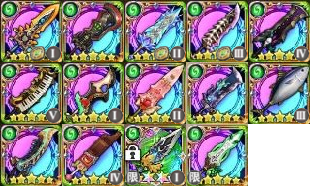
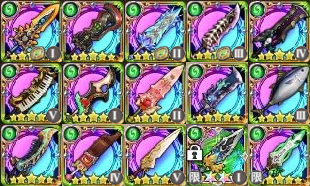
Update Dress Up

Changed region(s): [[0.3774, 0.6452, 1.0, 1.0]]

diff --git a/docs/list-weapons.md b/docs/list-weapons.md
@@ -140,6 +140,7 @@ EQ | Name | Slot | Auto | Special
 <img src="https://raw.githubusercontent.com/caelumff/bdfeguides/master/icons/KNG4-10.jpg" width="60" alt="Sword"> | <a href="list-names.md#-summer-2018">Tuna</a> | 3 | Heal<br> | Mono Phalanx 3<br>
 <img src="https://raw.githubusercontent.com/caelumff/bdfeguides/master/icons/KNG4-11.jpg" width="60" alt="Sword"> | <a href="list-names.md#-grimms-notes-repage">Legend</a> | 0 |  -  | Allies Heal<br>
 <img src="https://raw.githubusercontent.com/caelumff/bdfeguides/master/icons/KNG4-12.jpg" width="60" alt="Sword"> | <a href="list-names.md#-valentines-2019">Choco</a> | 4 |  -  | Command 2<br>Aggro<br>
+<img src="https://raw.githubusercontent.com/caelumff/bdfeguides/master/icons/KNG4-13.jpg" width="60" alt="Sword"> | <a href="list-names.md#-dress-up">Dress Up</a> | 5 |  -  | Limit Break 3<br><img src="https://caelum.s-ul.eu/7tZLFGPP.png" width="25" alt="Slot Effect"> Phalanx 1<br>
 <img src="https://raw.githubusercontent.com/caelumff/bdfeguides/master/icons/Chocobo1.jpg" width="60" alt="Sword"> | **[LIMITED]** <a href="list-names.md#-final-fantasy-brave-exvius">Chocobo</a> | 1 |  -  | HP Up<br>Regen 1<br>
 <img src="https://raw.githubusercontent.com/caelumff/bdfeguides/master/icons/Rinne1.jpg" width="60" alt="Sword"> | **[LIMITED]** <a href="list-names.md#-2nd-anniversary">Rinne</a> | 0 |  -  | Dueling 3<br>
 
@@ -218,6 +219,7 @@ EQ | Name | Slot | Auto | Special
 <img src="https://raw.githubusercontent.com/caelumff/bdfeguides/master/icons/BLM4-10.jpg" width="60" alt="Rod"> | <a href="list-names.md#-summer-2018">Unagi</a> | 3 |  -  | AoE<br>Magic Barrier<br>Aspir 2<br>
 <img src="https://raw.githubusercontent.com/caelumff/bdfeguides/master/icons/BLM4-11.jpg" width="60" alt="Rod"> | <a href="list-names.md#-grimms-notes-repage">Legend</a> | 0 | Buff<br> | Split<br>Fast Cast 2<br>
 <img src="https://raw.githubusercontent.com/caelumff/bdfeguides/master/icons/BLM4-12.jpg" width="60" alt="Rod"> | <a href="list-names.md#-valentines-2019">Lollipop</a> | 4 |  -  | Limit Break 3<br>
+<img src="https://raw.githubusercontent.com/caelumff/bdfeguides/master/icons/BLM4-13.jpg" width="60" alt="Rod"> | <a href="list-names.md#-dress-up">Dress Up</a> | 5 | AoE<br> | Empower 2<br><img src="https://caelum.s-ul.eu/7tZLFGPP.png" width="25" alt="Slot Effect"> Limit Break 1<br>
 <img src="https://raw.githubusercontent.com/caelumff/bdfeguides/master/icons/Chocobo2.jpg" width="60" alt="Rod"> | **[LIMITED]** <a href="list-names.md#-final-fantasy-brave-exvius">Chocobo</a> | 1 | AoE<br> | Concentrate 2<br>
 <img src="https://raw.githubusercontent.com/caelumff/bdfeguides/master/icons/Rinne2.jpg" width="60" alt="Rod"> | **[LIMITED]** <a href="list-names.md#-2nd-anniversary">Rinne</a> | 0 |  -  | Critical 3<br>
 
@@ -296,6 +298,7 @@ EQ | Name | Slot | Auto | Special
 <img src="https://raw.githubusercontent.com/caelumff/bdfeguides/master/icons/WHM4-10.jpg" width="60" alt="Book"> | <a href="list-names.md#-summer-2018">Flounder</a> | 3 | Attack<br> | Mono Brave 3<br>BP Recovery<br>
 <img src="https://raw.githubusercontent.com/caelumff/bdfeguides/master/icons/WHM4-11.jpg" width="60" alt="Book"> | <a href="list-names.md#-grimms-notes-repage">Legend</a> | 0 | 2 Row<br> | Heal<br>PA/PD/MA/MD Up<br>
 <img src="https://raw.githubusercontent.com/caelumff/bdfeguides/master/icons/WHM4-12.jpg" width="60" alt="Book"> | <a href="list-names.md#-valentines-2019">Choco</a> | 4 | Buff<br> | 2 Row<br>HP/BP Up<br><img src="https://caelum.s-ul.eu/7tZLFGPP.png" width="25" alt="Slot Effect"> BP Recovery<br>
+<img src="https://raw.githubusercontent.com/caelumff/bdfeguides/master/icons/WHM4-13.jpg" width="60" alt="Book"> | <a href="list-names.md#-dress-up">Dress Up</a> | 5 | Attack<br> | Attack<br>Mono Brave/Default 1<br>Mono Quick 2<br>
 <img src="https://raw.githubusercontent.com/caelumff/bdfeguides/master/icons/Chocobo3.jpg" width="60" alt="Book"> | **[LIMITED]** <a href="list-names.md#-final-fantasy-brave-exvius">Chocobo</a> | 1 |  -  | Heal<br>Brave 1<br>Default 1<br>
 <img src="https://raw.githubusercontent.com/caelumff/bdfeguides/master/icons/Rinne3.jpg" width="60" alt="Book"> | **[LIMITED]** <a href="list-names.md#-2nd-anniversary">Rinne</a> | 0 |  -  | Heal<br>Brave 2<br>BP Recovery<br>
 
@@ -374,6 +377,7 @@ EQ | Name | Slot | Auto | Special
 <img src="https://raw.githubusercontent.com/caelumff/bdfeguides/master/icons/THF4-10.jpg" width="60" alt="Dagger"> | <a href="list-names.md#-summer-2018">Mackerel</a> | 3 |  -  | AoE<br>Nuke<br>
 <img src="https://raw.githubusercontent.com/caelumff/bdfeguides/master/icons/THF4-11.jpg" width="60" alt="Dagger"> | <a href="list-names.md#-grimms-notes-repage">Legend</a> | 0 |  -  | Focus 2<br>
 <img src="https://raw.githubusercontent.com/caelumff/bdfeguides/master/icons/THF4-12.jpg" width="60" alt="Dagger"> | <a href="list-names.md#-valentines-2019">Fondue</a> | 4 | Fast 2 Hit<br>Aim 100%<br>AWK Boost<br> | Dagger Stance<br><img src="https://caelum.s-ul.eu/7tZLFGPP.png" width="25" alt="Slot Effect"> Row Quick 1<br>
+<img src="https://raw.githubusercontent.com/caelumff/bdfeguides/master/icons/THF4-13.jpg" width="60" alt="Dagger"> | <a href="list-names.md#-dress-up">Dress Up</a> | 5 |  -  | Assault 3<br>Cleanse<br><img src="https://caelum.s-ul.eu/7tZLFGPP.png" width="25" alt="Slot Effect"> Shadow 1<br>
 <img src="https://raw.githubusercontent.com/caelumff/bdfeguides/master/icons/Chocobo4.jpg" width="60" alt="Dagger"> | **[LIMITED]** <a href="list-names.md#-final-fantasy-brave-exvius">Chocobo</a> | 1 |  -  | Shadow 1<br>
 <img src="https://raw.githubusercontent.com/caelumff/bdfeguides/master/icons/Rinne4.jpg" width="60" alt="Dagger"> | **[LIMITED]** <a href="list-names.md#-2nd-anniversary">Rinne</a> | 0 |  -  | Dodge 3<br>
 
@@ -452,6 +456,7 @@ EQ | Name | Slot | Auto | Special
 <img src="https://raw.githubusercontent.com/caelumff/bdfeguides/master/icons/RNG4-10.jpg" width="60" alt="Bow"> | <a href="list-names.md#-summer-2018">Hairtail</a> | 3 |  -  | AoE<br>Mono Weakness/Forceless 2<br>
 <img src="https://raw.githubusercontent.com/caelumff/bdfeguides/master/icons/RNG4-11.jpg" width="60" alt="Bow"> | <a href="list-names.md#-grimms-notes-repage">Legend</a> | 0 | AoE<br> | AoE<br>PA/PD/MA/MD Down<br>Hawkeye 2<br>
 <img src="https://raw.githubusercontent.com/caelumff/bdfeguides/master/icons/RNG4-12.jpg" width="60" alt="Bow"> | <a href="list-names.md#-valentines-2019">Candy</a> | 4 |  -  | Wind Chaser 2<br><img src="https://caelum.s-ul.eu/7tZLFGPP.png" width="25" alt="Slot Effect"> Debuff Extend<br>
+<img src="https://raw.githubusercontent.com/caelumff/bdfeguides/master/icons/RNG4-13.jpg" width="60" alt="Bow"> | <a href="list-names.md#-dress-up">Dress Up</a> | 5 |  -  | Dispel<br>Cage of Curse<br><img src="https://caelum.s-ul.eu/7tZLFGPP.png" width="25" alt="Slot Effect"> Hawkeye 1<br>
 <img src="https://raw.githubusercontent.com/caelumff/bdfeguides/master/icons/Chocobo5.jpg" width="60" alt="Bow"> | **[LIMITED]** <a href="list-names.md#-final-fantasy-brave-exvius">Chocobo</a> | 1 |  -  | Weakness 1<br>Forceless 1<br>
 <img src="https://raw.githubusercontent.com/caelumff/bdfeguides/master/icons/Rinne5.jpg" width="60" alt="Bow"> | **[LIMITED]** <a href="list-names.md#-2nd-anniversary">Rinne</a> | 0 | AoE<br> | AoE<br>Mono Weakness 3<br>
 

diff --git a/docs/list-weapons-jp.md b/docs/list-weapons-jp.md
@@ -83,6 +83,7 @@
 <img src="https://raw.githubusercontent.com/caelumff/bdfeguides/master/icons/KNG4-10.jpg" width="60" alt="大剣"> | 零刀マグロ | III | 回復<br> | 染めファランクス III<br>
 <img src="https://raw.githubusercontent.com/caelumff/bdfeguides/master/icons/KNG4-11.jpg" width="60" alt="大剣"> | レジェンドソード | 無 | - | 自分以外回復<br>
 <img src="https://raw.githubusercontent.com/caelumff/bdfeguides/master/icons/KNG4-12.jpg" width="60" alt="大剣"> | 斬りチョコ | IV | - | 号令 II<br>敵視<br>
+<img src="https://raw.githubusercontent.com/caelumff/bdfeguides/master/icons/KNG4-13.jpg" width="60" alt="大剣"> | 神秘の大剣 | V | - | リミブレ III<br><img src="https://caelum.s-ul.eu/7tZLFGPP.png" width="25" alt="枠適正"> ファランクス I<br>
 <img src="https://raw.githubusercontent.com/caelumff/bdfeguides/master/icons/Chocobo1.jpg" width="60" alt="大剣"> | **[期間限定]** チョコボウィング | I | - | HPアップ<br>リジェネ I<br>
 <img src="https://raw.githubusercontent.com/caelumff/bdfeguides/master/icons/Rinne1.jpg" width="60" alt="大剣"> | **[期間限定]** 妖精の大剣 | 無 | - | デュエリング III<br>
 
@@ -161,6 +162,7 @@
 <img src="https://raw.githubusercontent.com/caelumff/bdfeguides/master/icons/BLM4-10.jpg" width="60" alt="ロッド"> | ウナギスティック | III | - | 全体<br>マジックバリア<br>アスピル II<br>
 <img src="https://raw.githubusercontent.com/caelumff/bdfeguides/master/icons/BLM4-11.jpg" width="60" alt="ロッド"> | レジェンドスタッフ | 無 | バフ<br> | スプリット<br>早口 II<br>
 <img src="https://raw.githubusercontent.com/caelumff/bdfeguides/master/icons/BLM4-12.jpg" width="60" alt="ロッド"> | マジロリポップ | IV | - | リミブレ III<br>
+<img src="https://raw.githubusercontent.com/caelumff/bdfeguides/master/icons/BLM4-13.jpg" width="60" alt="ロッド"> | 飛翔の杖 | V | 全体<br> | エンパワー II<br><img src="https://caelum.s-ul.eu/7tZLFGPP.png" width="25" alt="枠適正"> リミブレ I<br>
 <img src="https://raw.githubusercontent.com/caelumff/bdfeguides/master/icons/Chocobo2.jpg" width="60" alt="ロッド"> | **[期間限定]** チョコボフェザー | I | 全体<br> | 集中 II<br>
 <img src="https://raw.githubusercontent.com/caelumff/bdfeguides/master/icons/Rinne2.jpg" width="60" alt="ロッド"> | **[期間限定]** キセキの杖 | 無 | - | 会心 III<br>
 
@@ -239,6 +241,7 @@
 <img src="https://raw.githubusercontent.com/caelumff/bdfeguides/master/icons/WHM4-10.jpg" width="60" alt="ブック"> | ヒラカレざる禁書 | III | 攻撃<br> | 染めブレイブ III<br>BP回復<br>
 <img src="https://raw.githubusercontent.com/caelumff/bdfeguides/master/icons/WHM4-11.jpg" width="60" alt="ブック"> | レジェンドグリモア | 無 | 二列<br> | 回復<br>物攻物防魔攻魔防アップ<br>
 <img src="https://raw.githubusercontent.com/caelumff/bdfeguides/master/icons/WHM4-12.jpg" width="60" alt="ブック"> | チョコアソート | IV | バフ<br> | 二列<br>最大HP/BPアップ<br><img src="https://caelum.s-ul.eu/7tZLFGPP.png" width="25" alt="枠適正"> BP回復<br>
+<img src="https://raw.githubusercontent.com/caelumff/bdfeguides/master/icons/WHM4-13.jpg" width="60" alt="ブック"> | 創造の写本 | V | 攻撃<br> | 攻撃<br>染めブレイブデフォルト I<br>染めクイック II<br>
 <img src="https://raw.githubusercontent.com/caelumff/bdfeguides/master/icons/Chocobo3.jpg" width="60" alt="ブック"> | **[期間限定]** チョコボメモリア | I | - | 回復<br>ブレイブ I<br>デフォルト I<br>
 <img src="https://raw.githubusercontent.com/caelumff/bdfeguides/master/icons/Rinne3.jpg" width="60" alt="ブック"> | **[期間限定]** リンネのキセキ | 無 | - | 回復<br>ブレイブ II<br>BP回復<br>
 
@@ -317,6 +320,7 @@
 <img src="https://raw.githubusercontent.com/caelumff/bdfeguides/master/icons/THF4-10.jpg" width="60" alt="双剣"> | サバイタルナイフ | III | - | 全体<br>防御無視<br>
 <img src="https://raw.githubusercontent.com/caelumff/bdfeguides/master/icons/THF4-11.jpg" width="60" alt="双剣"> | レジェンドナイフ | 無 | - | フォーカス II<br>
 <img src="https://raw.githubusercontent.com/caelumff/bdfeguides/master/icons/THF4-12.jpg" width="60" alt="双剣"> | アラザンチョコフォンデュ | IV | 速い二段<br>必中<br>覚醒威力<br> | 双剣の構え<br><img src="https://caelum.s-ul.eu/7tZLFGPP.png" width="25" alt="枠適正"> 列クイック I<br>
+<img src="https://raw.githubusercontent.com/caelumff/bdfeguides/master/icons/THF4-13.jpg" width="60" alt="双剣"> | 絢爛の双剣 | V | - | アサルト III<br>デバフ全解除<br><img src="https://caelum.s-ul.eu/7tZLFGPP.png" width="25" alt="枠適正"> シャドウ I<br>
 <img src="https://raw.githubusercontent.com/caelumff/bdfeguides/master/icons/Chocobo4.jpg" width="60" alt="双剣"> | **[期間限定]** チョコボクロウ | I | - | シャドウ I<br>
 <img src="https://raw.githubusercontent.com/caelumff/bdfeguides/master/icons/Rinne4.jpg" width="60" alt="双剣"> | **[期間限定]** ナンデストウ | 無 | - | みかわし III<br>
 
@@ -395,6 +399,7 @@
 <img src="https://raw.githubusercontent.com/caelumff/bdfeguides/master/icons/RNG4-10.jpg" width="60" alt="弓"> | タッチウォーガン | III | - | 全体<br>染めウィークネスフォースレス II<br>
 <img src="https://raw.githubusercontent.com/caelumff/bdfeguides/master/icons/RNG4-11.jpg" width="60" alt="弓"> | レジェンドボウ | 無 | 全体<br> | 全体<br>物攻物防魔攻魔防ダウン<br>ホークアイ II<br>
 <img src="https://raw.githubusercontent.com/caelumff/bdfeguides/master/icons/RNG4-12.jpg" width="60" alt="弓"> | アロアロキャンディ | IV | - | 風チェイサー II<br><img src="https://caelum.s-ul.eu/7tZLFGPP.png" width="25" alt="枠適正"> デバフ延長<br>
+<img src="https://raw.githubusercontent.com/caelumff/bdfeguides/master/icons/RNG4-13.jpg" width="60" alt="弓"> | 鮮麗の弓 | V | - | バフ全解除<br>呪いの檻<br><img src="https://caelum.s-ul.eu/7tZLFGPP.png" width="25" alt="枠適正"> ホークアイ I<br>
 <img src="https://raw.githubusercontent.com/caelumff/bdfeguides/master/icons/Chocobo5.jpg" width="60" alt="弓"> | **[期間限定]** チョコボメナス | I | - | ウィークネス I<br>フォースレス I<br>
 <img src="https://raw.githubusercontent.com/caelumff/bdfeguides/master/icons/Rinne5.jpg" width="60" alt="弓"> | **[期間限定]** 妖精の弓 | 無 | 全体<br> | 全体<br>染めウィークネス III<br>
 

diff --git a/docs/list-names.md b/docs/list-names.md
@@ -44,9 +44,9 @@
 [Grimms Notes Repage](#-grimms-notes-repage) | [Kairisei Million Arthur](#-kairisei-million-arthur) | [Octopath Traveler](#-octopath-traveler) | [Summer 2018](#-summer-2018)
 [Japan Folklore](#-japan-folklore) | [Sports 2018](#-sports-2018) | [Halloween 2018](#-halloween-2018) | [Grimms Notes Repage](#-grimms-notes-repage)
 [Lotus](#-lotus) | [Sergeant Keroro](#-sergeant-keroro) | [Christmas 2018](#-christmas-2018) | [Valentine's 2019](#-valentines-2019)
-[Retro Modern](#-retro-modern) | [Bravely Default Praying Brage](#-bravely-default-praying-brage) | [Danmachi](#-danmachi) | [Final Fantasy Brave Exvius](#-final-fantasy-brave-exvius)
-[Rose](#-rose) | [Steampunk](#-steampunk) | \- | [2nd Anniversary](#-2nd-anniversary)
-[1st Anniversary](#-1st-anniversary) | [Valkyrie Profile](#-valkyrie-profile) | \- | \-
+[Retro Modern](#-retro-modern) | [Bravely Default Praying Brage](#-bravely-default-praying-brage) | [Danmachi](#-danmachi) | [Dress Up](#-dress-up)
+[Rose](#-rose) | [Steampunk](#-steampunk) | \- | [Final Fantasy Brave Exvius](#-final-fantasy-brave-exvius)
+[1st Anniversary](#-1st-anniversary) | [Valkyrie Profile](#-valkyrie-profile) | \- | [2nd Anniversary](#-2nd-anniversary)
 
 # Fire Weapons
 ## <img src="https://caelum.s-ul.eu/2p740des.png" width="25" alt="Fire"> Old Fire
@@ -659,6 +659,17 @@ EQ | Names
 <img src="https://raw.githubusercontent.com/caelumff/bdfeguides/master/icons/WHM4-12.jpg" width="60" alt="Book"> | <a href="list-weapons.md#-wind-books">チョコアソート</a><br>Choco Assort
 <img src="https://raw.githubusercontent.com/caelumff/bdfeguides/master/icons/THF4-12.jpg" width="60" alt="Dagger"> | <a href="list-weapons.md#-wind-daggers">アラザンチョコフォンデュ</a><br>Argent Choco Fondue
 <img src="https://raw.githubusercontent.com/caelumff/bdfeguides/master/icons/RNG4-12.jpg" width="60" alt="Bow"> | <a href="list-weapons.md#-wind-bows">アロアロキャンディ</a><br>Arrow Arrow Candy
+
+## <img src="https://caelum.s-ul.eu/d7KNBOoa.png" width="25" alt="Wind"> Dress Up
+**Slot: 5**
+
+EQ | Names
+:-:|---
+<img src="https://raw.githubusercontent.com/caelumff/bdfeguides/master/icons/KNG4-13.jpg" width="60" alt="Sword"> | <a href="list-weapons.md#-wind-swords">神秘の大剣</a><br>Mysterious Sword
+<img src="https://raw.githubusercontent.com/caelumff/bdfeguides/master/icons/BLM4-13.jpg" width="60" alt="Rod"> | <a href="list-weapons.md#-wind-rods">飛翔の杖</a><br>Rod of Flight
+<img src="https://raw.githubusercontent.com/caelumff/bdfeguides/master/icons/WHM4-13.jpg" width="60" alt="Book"> | <a href="list-weapons.md#-wind-books">創造の写本</a><br>Manuscript of Creation
+<img src="https://raw.githubusercontent.com/caelumff/bdfeguides/master/icons/THF4-13.jpg" width="60" alt="Dagger"> | <a href="list-weapons.md#-wind-daggers">絢爛の双剣</a><br>Gorgeous Dagger
+<img src="https://raw.githubusercontent.com/caelumff/bdfeguides/master/icons/RNG4-13.jpg" width="60" alt="Bow"> | <a href="list-weapons.md#-wind-bows">鮮麗の弓</a><br>Gorgeous Bow
 
 ## <img src="https://caelum.s-ul.eu/d7KNBOoa.png" width="25" alt="Wind"> Final Fantasy Brave Exvius
 **[LIMITED]**<br>**Slot: 1**
